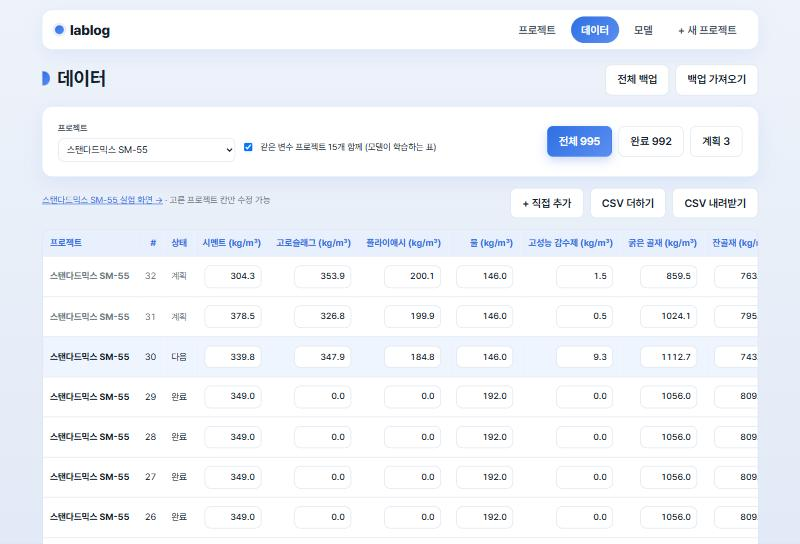
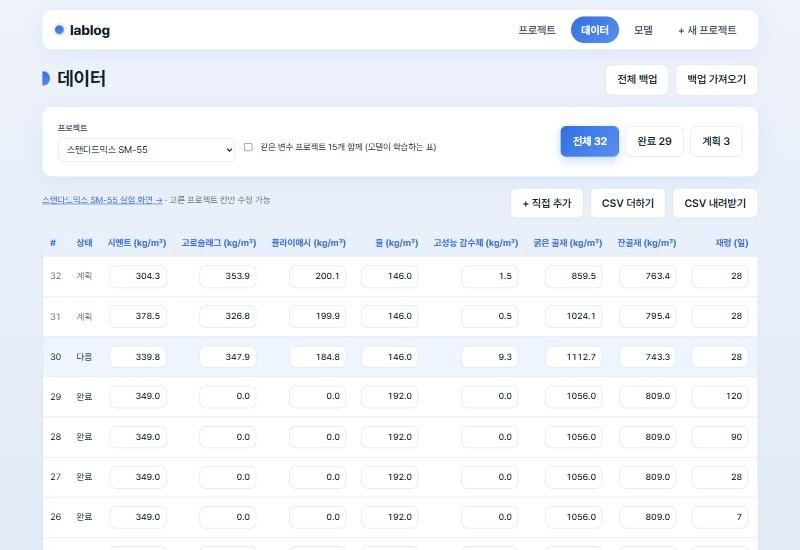
Data tab: show only the picked project by default, lay out the chart cards
- The project dropdown now changes the counts: pooling same-variable
  projects is opt-in via the checkbox (every demo project shares the
  same variables, so the default looked like the whole dataset)
- Influence bars use the full card width with readable labels; the
  scatter controls sit in the card header and both cards share height

diff --git a/app/src/pages/DataPage.tsx b/app/src/pages/DataPage.tsx
@@ -27,7 +27,7 @@ function runGoal(p: Project, r: Run, g: Goal): boolean | null {
 export function DataPage() {
   const db = useDb()
   const [params, setParams] = useSearchParams()
-  const [together, setTogether] = useState(true)
+  const [together, setTogether] = useState(false)
   const [filter, setFilter] = useState<'all' | 'done' | 'planned'>('all')
   const [adding, setAdding] = useState(false)
   const [page, setPage] = useState(0)
@@ -60,6 +60,8 @@ export function DataPage() {
   }, [db, project, together, isAll])
   const vars = [...view.inputs, ...view.levels, ...view.outputs]
   const multi = isAll || view.projects.length > 1
+  // 함께 볼 수 있는 같은 변수 프로젝트 수(체크 여부와 무관)
+  const mates = useMemo(() => (project ? scopeRuns(db, project, true).projects.length - 1 : 0), [db, project])
 
   const importBackup = async (f: File) => {
     const parsed = parseBackup(await f.text())
@@ -179,10 +181,17 @@ export function DataPage() {
               ))}
             </select>
           </div>
-          {!isAll && (
+          {!isAll && mates > 0 && (
             <label className="row small" style={{ marginTop: 18 }}>
-              <input type="checkbox" checked={together} onChange={(e) => setTogether(e.target.checked)} />
-              같은 변수 프로젝트 {view.projects.length > 1 ? `${view.projects.length - 1}개` : ''} 함께 (모델이 학습하는 표)
+              <input
+                type="checkbox"
+                checked={together}
+                onChange={(e) => {
+                  setTogether(e.target.checked)
+                  setPage(0)
+                }}
+              />
+              같은 변수 프로젝트 {mates}개 함께 (모델이 학습하는 표)
             </label>
           )}
         </div>
@@ -410,44 +419,48 @@ export function DataPage() {
       {y && (
         <div className="split">
           <section className="card stack" aria-labelledby="h-scatter">
-            <h2 id="h-scatter">조건과 결과의 관계</h2>
-            <div className="row">
-              {view.outputs.length > 1 && (
-                <div className="field">
-                  <label htmlFor="cy">결과</label>
-                  <select id="cy" className="input input--sm" value={y.id} onChange={(e) => setYId(e.target.value)}>
-                    {view.outputs.map((v) => (
-                      <option key={v.id} value={v.id}>
-                        {label(v)}
-                      </option>
-                    ))}
-                  </select>
-                </div>
-              )}
-              {x && (
-                <div className="field">
-                  <label htmlFor="cx">조건</label>
-                  <select id="cx" className="input input--sm" value={x.id} onChange={(e) => setXId(e.target.value)}>
-                    {xCands.map((v) => (
-                      <option key={v.id} value={v.id}>
-                        {label(v)}
-                      </option>
-                    ))}
-                  </select>
-                </div>
-              )}
+            <div className="row between">
+              <h2 id="h-scatter">조건과 결과의 관계</h2>
+              <div className="row chart-ctl">
+                {view.outputs.length > 1 && (
+                  <label className="row small">
+                    결과
+                    <select aria-label="결과" className="input input--sm" value={y.id} onChange={(e) => setYId(e.target.value)}>
+                      {view.outputs.map((v) => (
+                        <option key={v.id} value={v.id}>
+                          {label(v)}
+                        </option>
+                      ))}
+                    </select>
+                  </label>
+                )}
+                {x && (
+                  <label className="row small">
+                    조건
+                    <select aria-label="조건" className="input input--sm" value={x.id} onChange={(e) => setXId(e.target.value)}>
+                      {xCands.map((v) => (
+                        <option key={v.id} value={v.id}>
+                          {label(v)}
+                        </option>
+                      ))}
+                    </select>
+                  </label>
+                )}
+              </div>
             </div>
-            {x ? <ScatterChart pts={pts} x={x} y={y} goal={goal} /> : <p className="muted">값이 달라지는 조건 없음</p>}
             <p className="hint">
               {multi ? `프로젝트 ${view.projects.filter((q) => !q.reference).length}개${view.projects.some((q) => q.reference) ? ' + 과거 기록' : ''}의 완료 실험` : `${project?.name ?? ''}의 완료 실험`}
               {goal?.at && levelVar ? ` 중 ${levelVar.name} ${goal.at.value}${levelVar.unit}` : ''}
               {goal && project ? ` · 초록 띠 = ${project.name} 목표` : ''}
             </p>
+            {x ? <ScatterChart pts={pts} x={x} y={y} goal={goal} /> : <p className="muted">값이 달라지는 조건 없음</p>}
           </section>
           <section className="card stack" aria-labelledby="h-infl">
             <h2 id="h-infl">어떤 조건이 {y.name}을(를) 움직이는가</h2>
-            <p className="hint">상관계수(−1~1) · 상관 ≠ 원인 · 실험 적으면 우연일 수 있음 · 모델 중요도는 모델 탭</p>
-            <InfluenceBars variables={[...view.inputs, ...view.levels]} runs={doneScope} y={y} levelVar={levelVar} goal={goal} />
+            <p className="hint">막대 = 상관계수(−1~1) · 길수록 함께 움직임 · 상관 ≠ 원인 · 모델이 본 중요도는 모델 탭</p>
+            <div className="chart-fill">
+              <InfluenceBars variables={[...view.inputs, ...view.levels]} runs={doneScope} y={y} levelVar={levelVar} goal={goal} />
+            </div>
           </section>
         </div>
       )}

diff --git a/app/src/charts.tsx b/app/src/charts.tsx
@@ -165,32 +165,37 @@ export function InfluenceBars({ variables, runs, y, levelVar, goal }: { variable
     .filter((d) => d.r !== null)
     .sort((a, b) => Math.abs(b.r as number) - Math.abs(a.r as number))
   if (rows.length === 0) return <p className="muted">값이 달라지는 조건이 3건 이상 있어야 합니다.</p>
-  const rowH = 30
-  const h = rows.length * rowH + 30
-  const mid = 240
-  const half = 180
+  // 가로 전체를 쓴다: 왼쪽 이름 칸(labelW) + 가운데 0 축을 중심으로 좌우 half씩
+  const rowH = 34
+  const labelW = 150
+  const half = (W - labelW - 56) / 2
+  const mid = labelW + 28 + half
+  const h = rows.length * rowH + 44
   return (
     <svg className="chart" viewBox={`0 0 ${W} ${h}`} role="img" aria-label={`${y.name}에 대한 조건별 상관`}>
-      <line x1={mid} x2={mid} y1={8} y2={h - 22} stroke={C.grid} />
+      {[-1, -0.5, 0.5, 1].map((t) => (
+        <line key={t} x1={mid + t * half} x2={mid + t * half} y1={6} y2={h - 30} stroke={C.grid} strokeDasharray="3 4" />
+      ))}
+      <line x1={mid} x2={mid} y1={6} y2={h - 30} stroke={C.ink} strokeOpacity="0.4" />
       {rows.map((d, i) => {
         const r = d.r as number
         const w = Math.abs(r) * half
         return (
-          <g key={d.v.id} transform={`translate(0 ${10 + i * rowH})`}>
-            <text x={mid - half - 10} y={16} textAnchor="end" fontSize="13" fill={C.ink}>
+          <g key={d.v.id} transform={`translate(0 ${8 + i * rowH})`}>
+            <text x={labelW} y={19} textAnchor="end" fontSize="15" fill={C.ink}>
               {d.v.name}
             </text>
-            <rect x={r >= 0 ? mid : mid - w} y={4} width={w} height={18} rx="4" fill={r >= 0 ? C.point : C.neg} />
-            <text x={r >= 0 ? mid + w + 6 : mid - w - 6} y={17} textAnchor={r >= 0 ? 'start' : 'end'} fontSize="12" fill={C.ink}>
+            <rect x={r >= 0 ? mid : mid - w} y={5} width={w} height={20} rx="5" fill={r >= 0 ? C.point : C.neg} />
+            <text x={r >= 0 ? mid + w + 6 : mid - w - 6} y={19} textAnchor={r >= 0 ? 'start' : 'end'} fontSize="14" fontWeight="600" fill={C.ink}>
               {r.toFixed(2)}
             </text>
           </g>
         )
       })}
-      <text x={mid - half / 2} y={h - 6} textAnchor="middle" fontSize="12" fill={C.ink}>
+      <text x={mid - half / 2} y={h - 8} textAnchor="middle" fontSize="13" fill={C.neg}>
         ← 클수록 {y.name} 낮아짐
       </text>
-      <text x={mid + half / 2} y={h - 6} textAnchor="middle" fontSize="12" fill={C.ink}>
+      <text x={mid + half / 2} y={h - 8} textAnchor="middle" fontSize="13" fill={C.point}>
         클수록 {y.name} 높아짐 →
       </text>
     </svg>

diff --git a/app/src/app.test.tsx b/app/src/app.test.tsx
@@ -121,7 +121,13 @@ describe('예시 데이터', () => {
     open('/')
     await user.click(await screen.findByRole('link', { name: '데이터' }))
     expect(await screen.findByRole('heading', { name: '데이터' })).toBeInTheDocument()
-    expect(screen.getByText(/같은 변수 프로젝트 15개 함께/)).toBeInTheDocument()
+    // 기본은 고른 프로젝트의 실험만, 체크하면 같은 변수 프로젝트를 합친다
+    const picked = (screen.getByRole('combobox', { name: '프로젝트' }) as HTMLSelectElement).value
+    const own = getDb().runs.filter((r) => r.project === picked).length
+    expect(own).toBeGreaterThan(0)
+    expect(own).toBeLessThan(getDb().runs.length)
+    expect(screen.getByRole('button', { name: /전체 \d+/ })).toHaveTextContent(`전체 ${own}`)
+    await user.click(screen.getByLabelText(/같은 변수 프로젝트 15개 함께/))
     expect(screen.getByRole('button', { name: /전체 \d+/ })).toHaveTextContent(`전체 ${getDb().runs.length}`)
     // 전체 프로젝트 보기: 변수 이름 기준으로 합쳐 읽기만
     await user.selectOptions(screen.getByLabelText('프로젝트'), 'all')

diff --git a/app/src/styles.css b/app/src/styles.css
@@ -537,8 +537,27 @@ td.fail {
 
 .split {
   display: grid;
-  grid-template-columns: minmax(0, 1.4fr) minmax(0, 1fr);
+  grid-template-columns: minmax(0, 1fr) minmax(0, 1fr);
   gap: 18px;
+}
+
+/* 두 카드 높이를 맞추고, 짧은 차트는 세로 가운데에 */
+.chart-fill {
+  margin: auto 0;
+}
+
+.chart-ctl {
+  gap: 12px;
+}
+
+.chart-ctl label {
+  gap: 6px;
+  white-space: nowrap;
+}
+
+.chart-ctl .input {
+  width: auto;
+  min-width: 0;
 }
 
 .split > * {
